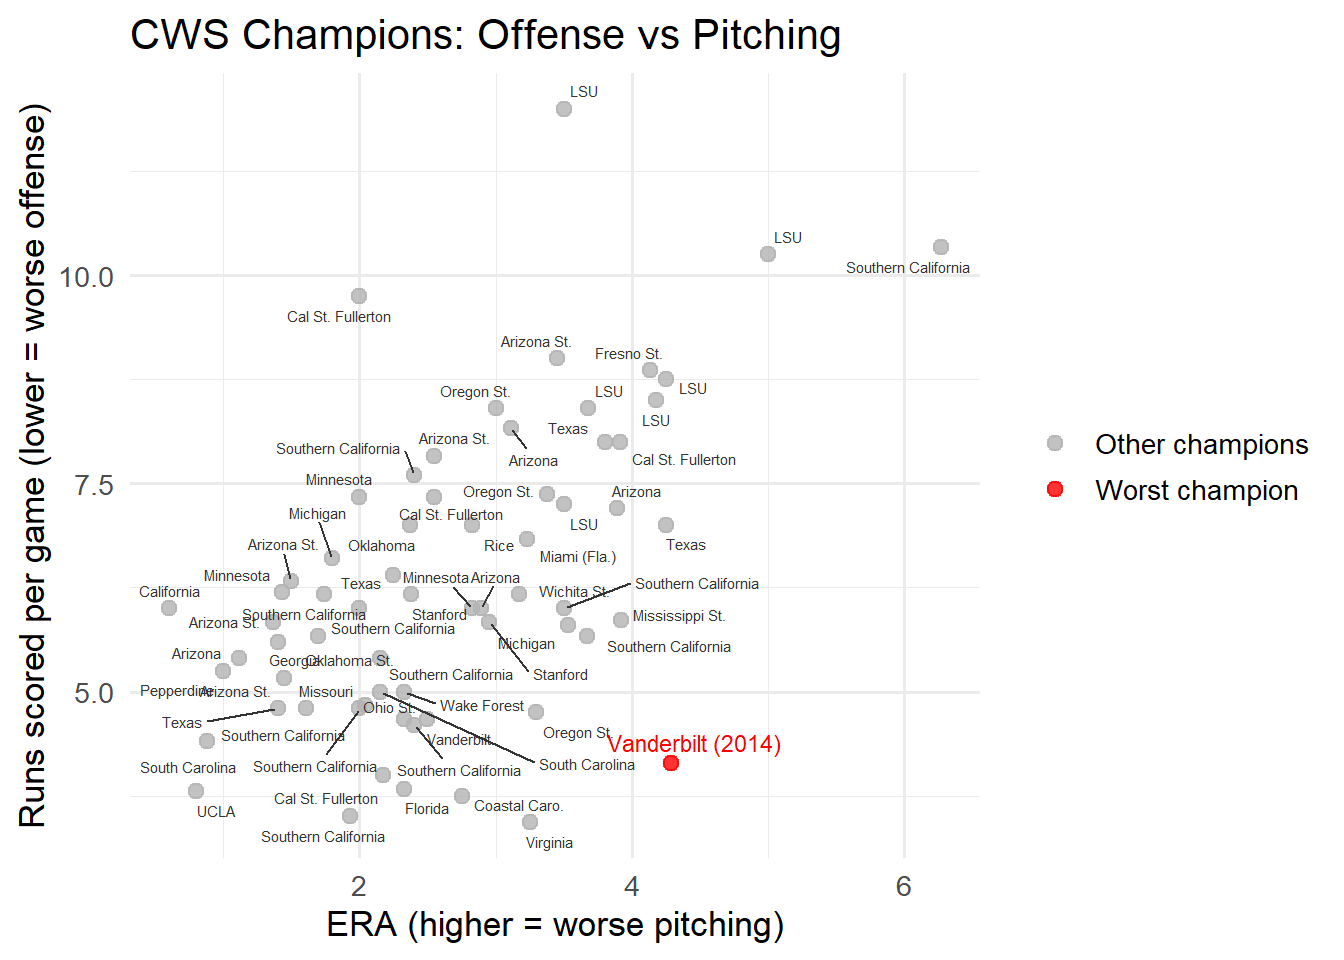
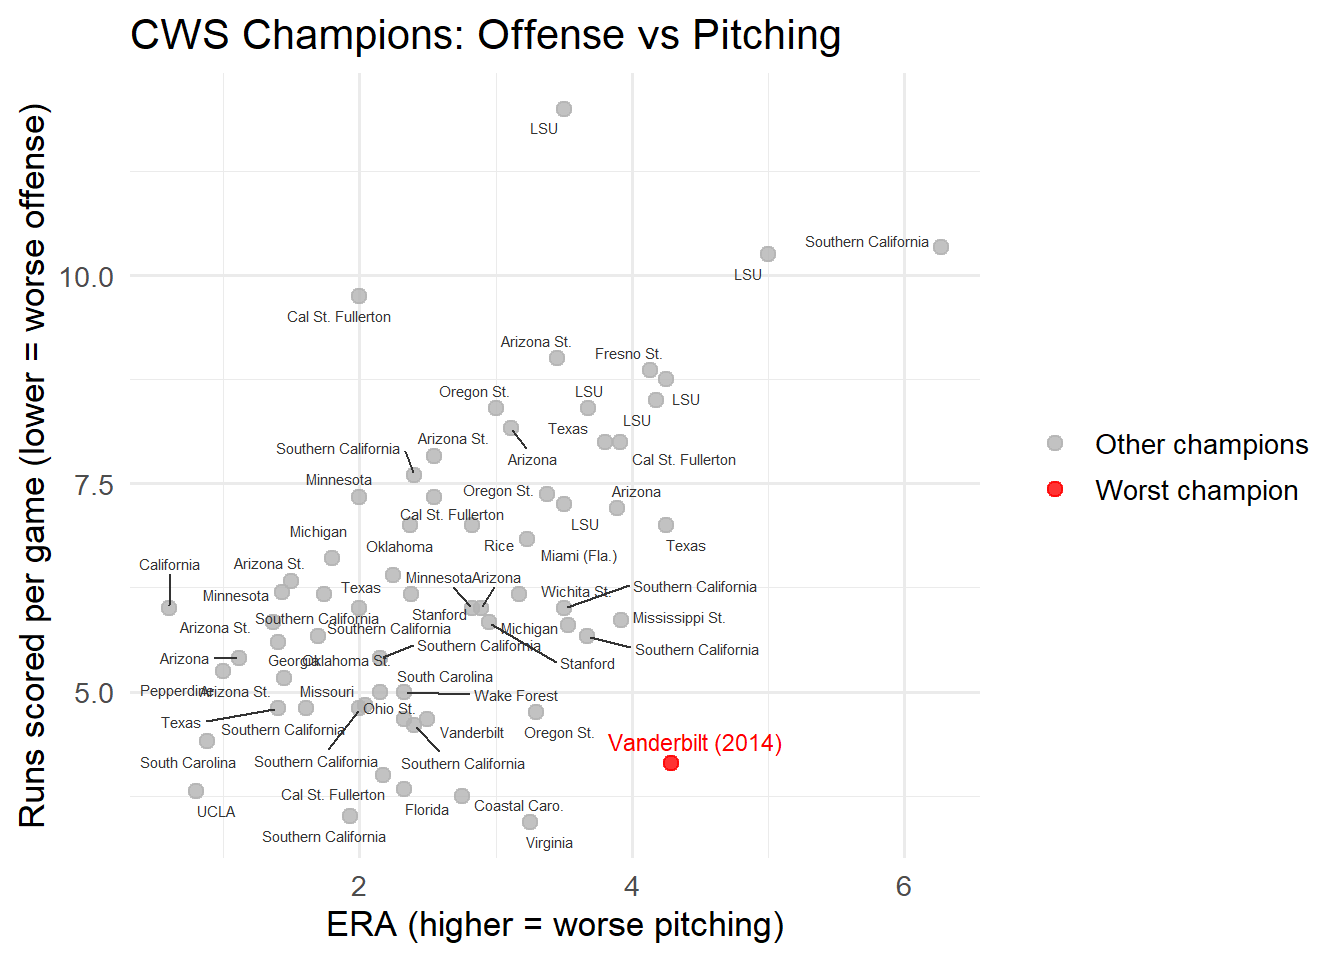
final updates

diff --git a/index.html b/index.html
@@ -209,7 +209,7 @@ window.Quarto = {
 
 <div class="quarto-listing quarto-listing-container-default" id="listing-listing">
 <div class="list quarto-listing-default">
-<div class="quarto-post image-right" data-index="0" data-categories="Q29sbGVnZSUyMEJhc2ViYWxsJTJDQ1dT" data-listing-date-sort="1763359200000" data-listing-file-modified-sort="1763511175378" data-listing-date-modified-sort="NaN" data-listing-reading-time-sort="11" data-listing-word-count-sort="2191">
+<div class="quarto-post image-right" data-index="0" data-categories="Q29sbGVnZSUyMEJhc2ViYWxsJTJDQ1dT" data-listing-date-sort="1763359200000" data-listing-file-modified-sort="1763512644574" data-listing-date-modified-sort="NaN" data-listing-reading-time-sort="11" data-listing-word-count-sort="2094">
 <div class="thumbnail"><a href="./posts/skaggs-major-project-1/index.html" class="no-external">
 
 <img loading="lazy" src="./posts/skaggs-major-project-1/chart.png" class="thumbnail-image">

diff --git a/posts/skaggs-major-project-1/index.html b/posts/skaggs-major-project-1/index.html
@@ -360,7 +360,7 @@ pre > code.sourceCode > span > a:first-child::before { text-decoration: underlin
 </div>
 </div>
 </div>
-<p>Above is the chart that shows the bottom 10 statistical champions. The combined rank takes the worst teams ERA and runs cored per game and adds them together. The following two graphs help tie it all together.</p>
+<p>Above is the chart that shows the bottom 10 statistical champions. The combined rank takes the worst teams ERA and runs scored per game and adds them together. The following two graphs help tie it all together.</p>
 <div class="cell">
 <details class="code-fold">
 <summary>Code</summary>
